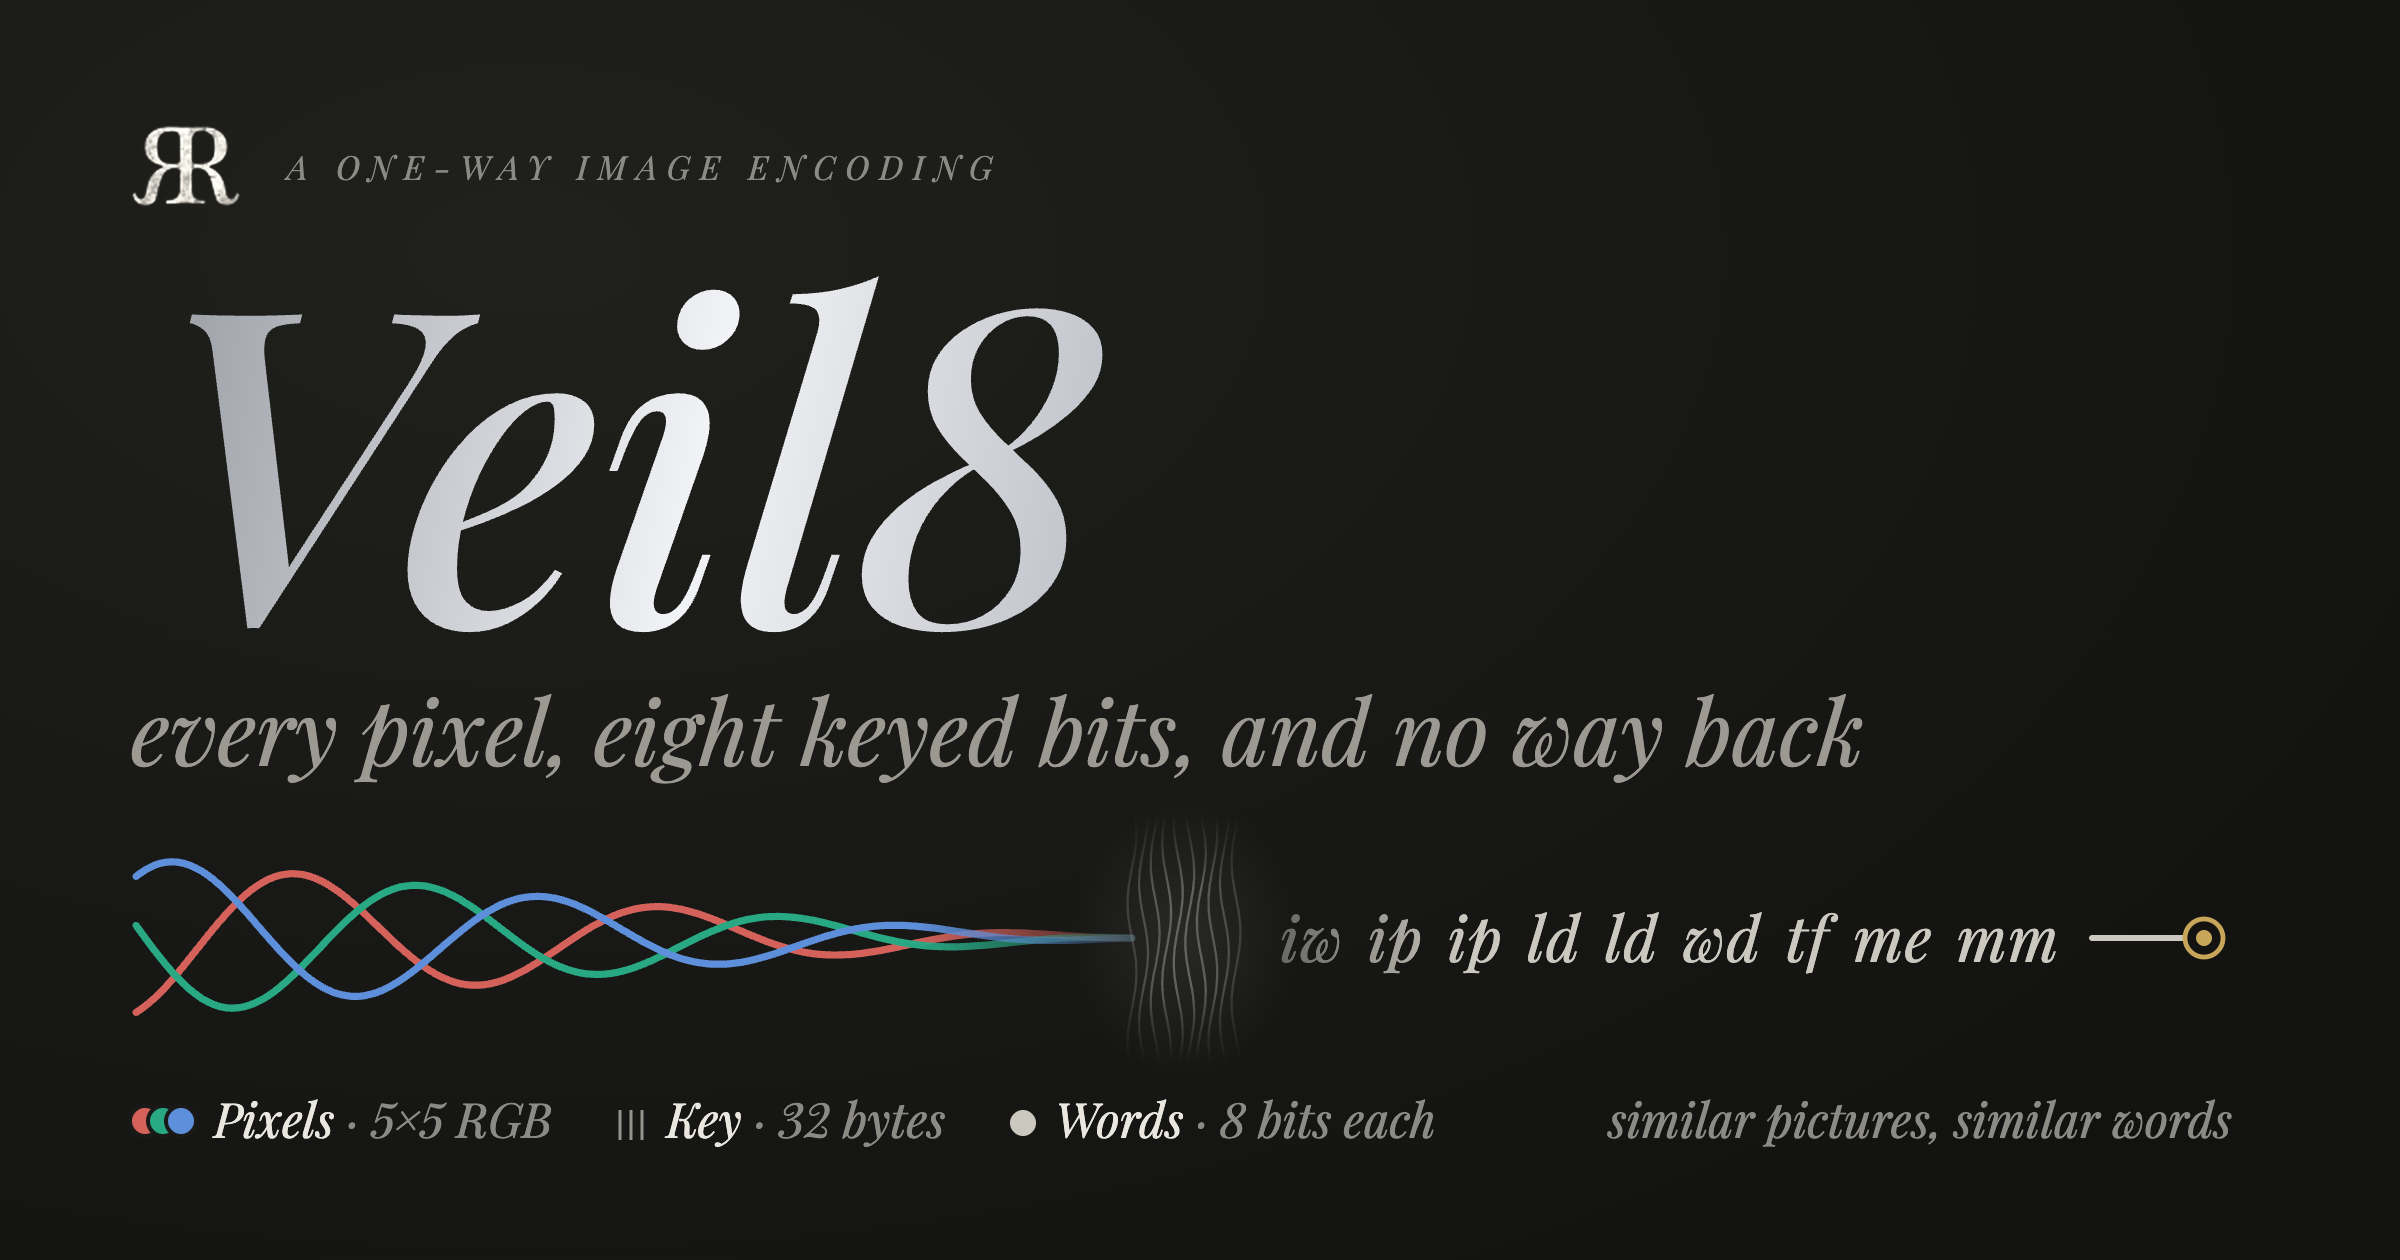
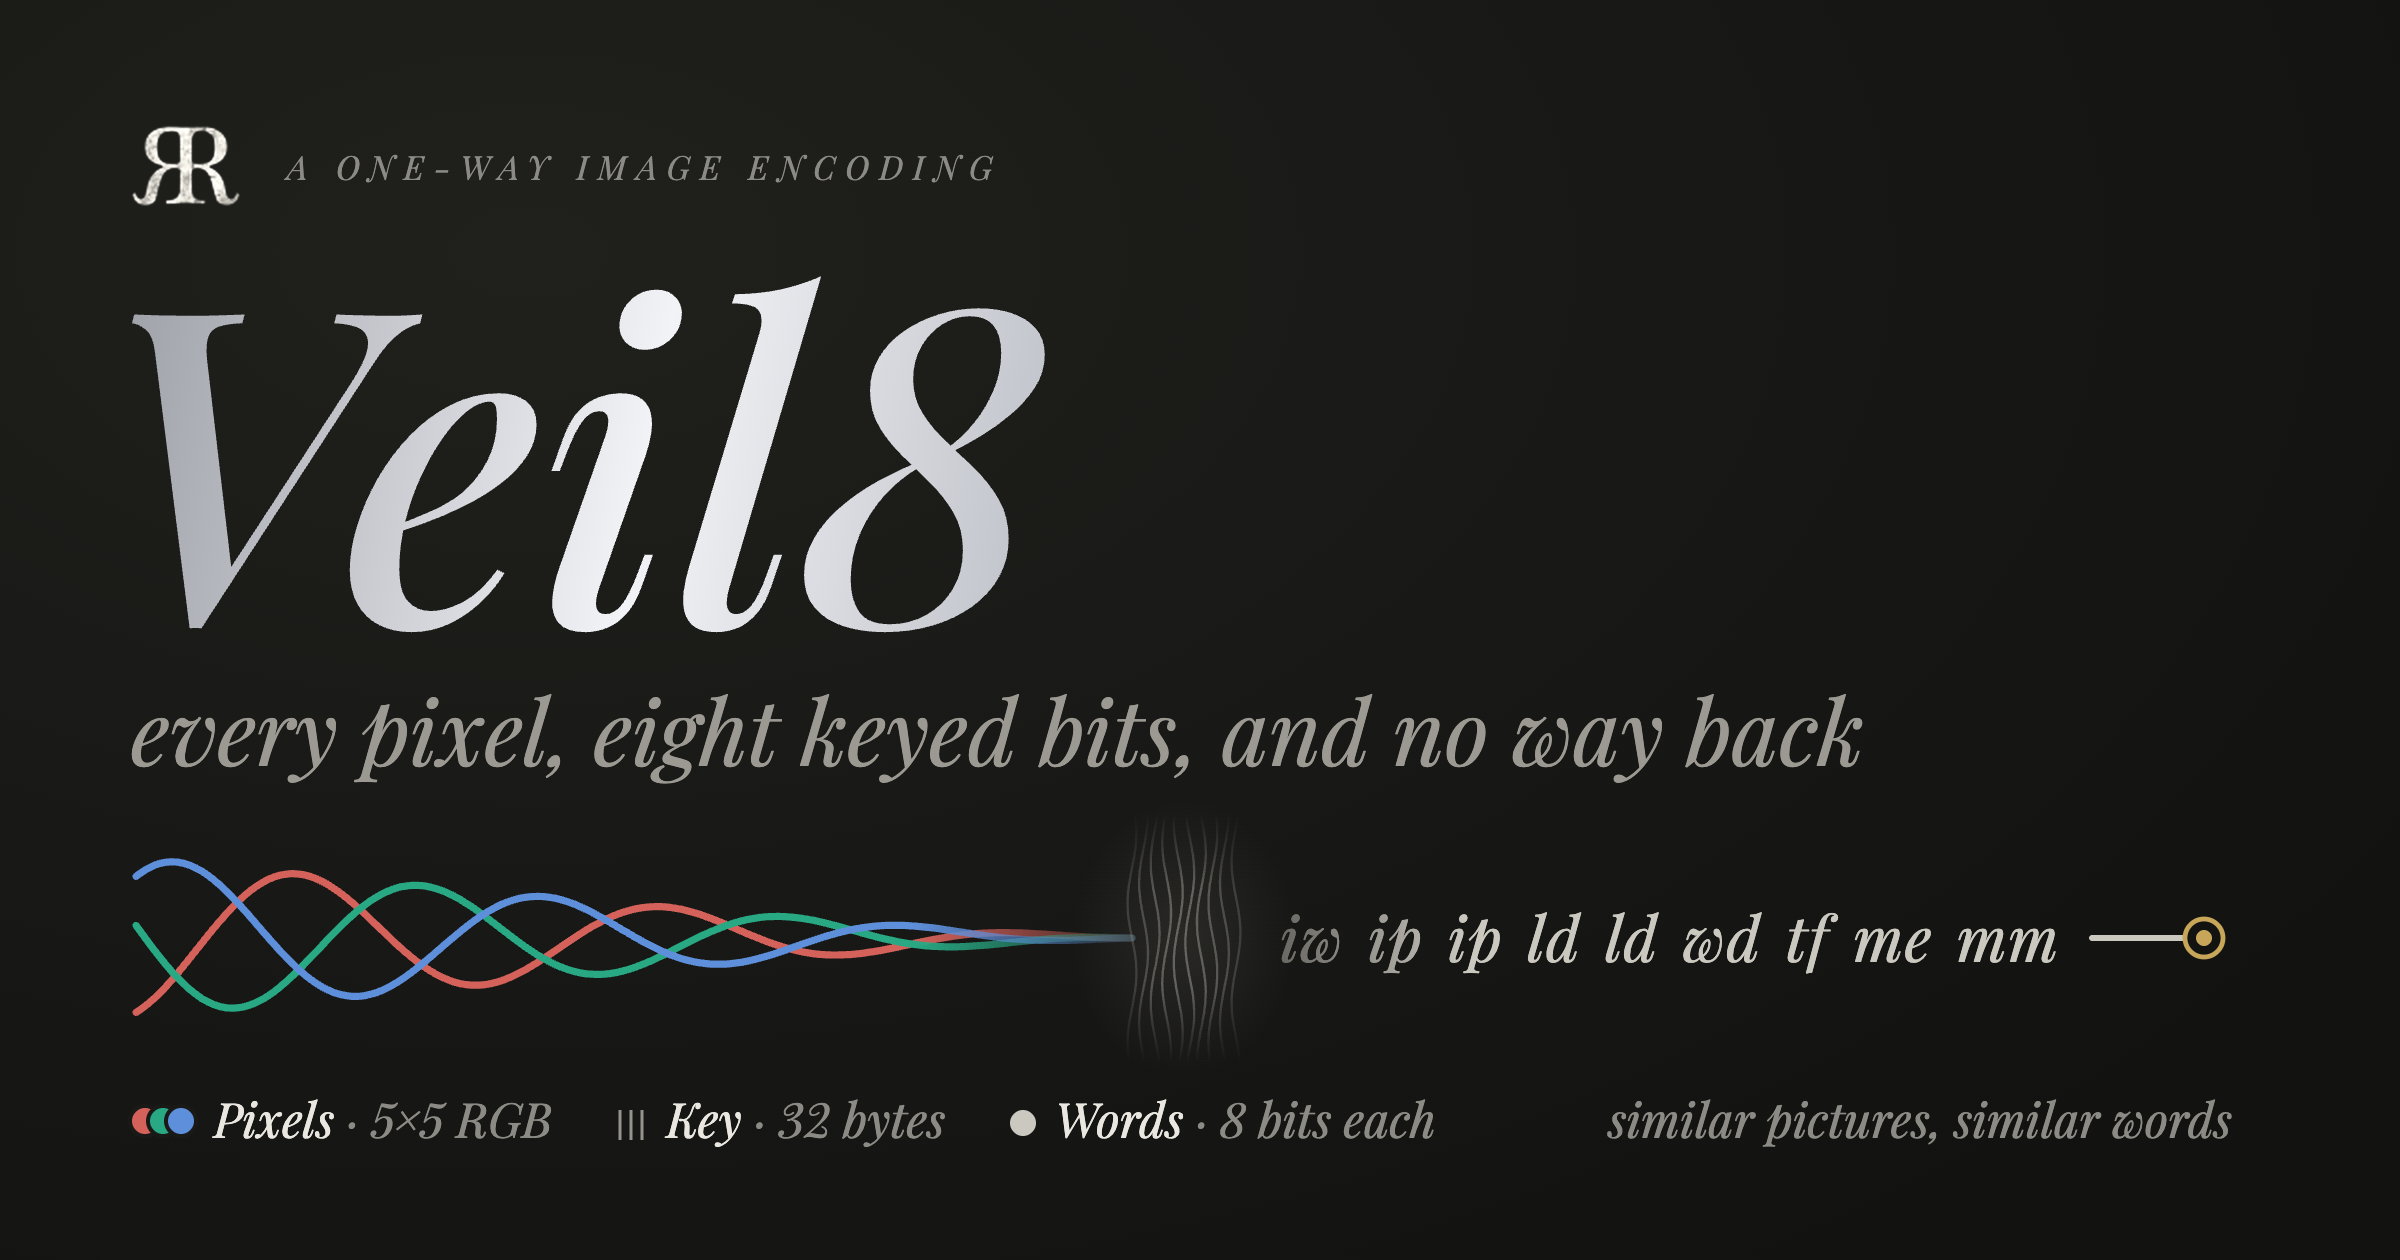
Update hero image alignment and the README

Changed region(s): [[0.0625, 0.2167, 0.4688, 0.5262]]

diff --git a/Docs/README_Assets/src/build.py b/Docs/README_Assets/src/build.py
@@ -1,6 +1,6 @@
 """Builds the README's hero from HTML, rendered by the installed Google Chrome through Playwright.
 
-    README_Assets/src/build.sh            # runs this
+    Docs/README_Assets/src/build.sh       # runs this
 
 Inputs:  this folder's rr-mark.png; Playfair Display Italic from ~/Library/Fonts; the golden
          vector's first words, from Tests/Veil8Tests/Fixtures/rgb-veil8.json.
@@ -18,7 +18,7 @@ from playwright.sync_api import sync_playwright
 
 HERE = os.path.dirname(os.path.abspath(__file__))
 OUT = os.path.abspath(sys.argv[1])
-FIXTURE = os.path.join(HERE, "..", "..", "Tests", "Veil8Tests", "Fixtures", "rgb-veil8.json")
+FIXTURE = os.path.join(HERE, "..", "..", "..", "Tests", "Veil8Tests", "Fixtures", "rgb-veil8.json")
 PLAYFAIR = os.path.expanduser("~/Library/Fonts/PlayfairDisplay-Italic-VariableFont_wght.ttf")
 
 # Braid's hero colours (RaoLM's og-image), with a red for the picture's red channel.
@@ -27,6 +27,15 @@ RED, GREEN, BLUE, GOLD, LINE = "#d4625b", "#28a883", "#5e8fda", "#c7a659", "#cbc
 Y = 469          # the motif's centre line, as in Braid's hero
 VEIL = (566, 618)  # where the strands go in and the words come out
 WORDS_END = 1040   # the words stop here; a short line runs on to the gold mark at 1102
+
+# The mark's ink, the strands, the subtitle and the legend start at x 66.
+# The title's and the subtitle's first ink sit on EDGE: an italic first glyph overhangs, or sits in, by its own
+# amount, so the page measures it with the font and places each line by it.
+EDGE = 66
+ALIGN = f"""document.fonts.ready.then(() => {{ const ctx = document.createElement('canvas').getContext('2d');
+    for (const el of document.querySelectorAll('.title, .sub')) {{ const cs = getComputedStyle(el), text = el.textContent.trim();
+        ctx.font = `italic ${{cs.fontWeight}} ${{cs.fontSize}} Playfair`;
+        el.style.left = ({EDGE} - parseFloat(cs.paddingLeft) + ctx.measureText(text[0]).actualBoundingBoxLeft) + 'px'; }} }})"""
 
 
 def shoot(browser, page_html, path, viewport=(1200, 630), scale=2, prepare=None):
@@ -39,6 +48,7 @@ def shoot(browser, page_html, path, viewport=(1200, 630), scale=2, prepare=None)
         page = browser.new_page(device_scale_factor=scale, viewport={"width": viewport[0], "height": viewport[1]})
         page.goto("file://" + name)
         page.evaluate("document.fonts.ready.then(() => true)")
+        page.evaluate(ALIGN)
         if prepare:
             page.evaluate(prepare)
         page.wait_for_timeout(150)

diff --git a/README.md b/README.md
@@ -1,4 +1,4 @@
-[![Veil8: every pixel, eight keyed bits, and no way back. A picture's red, green and blue run as three strands into a veil and come out as one line of two-letter words that ends in a gold mark.](README_Assets/hero.png)](README_Assets/hero.png)
+[![Veil8: every pixel, eight keyed bits, and no way back. A picture's red, green and blue run as three strands into a veil and come out as one line of two-letter words that ends in a gold mark.](Docs/README_Assets/hero.png)](Docs/README_Assets/hero.png)
 
 # Veil8
 
